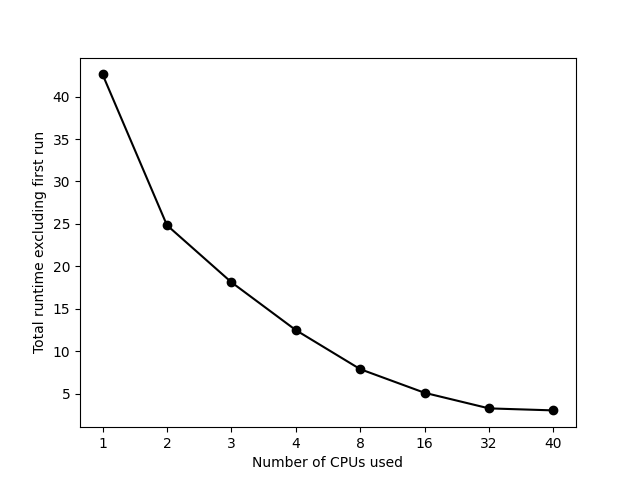
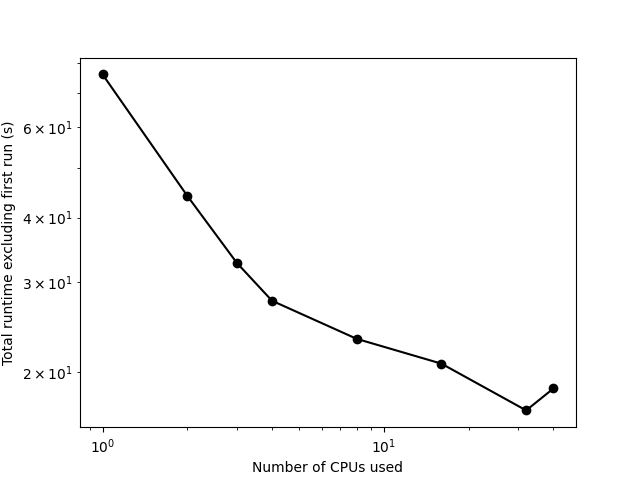
Update strong scale fixed gpu image

diff --git a/scripts/plot.py b/scripts/plot.py
@@ -2,16 +2,16 @@ import matplotlib.pyplot as plt
 import re
 import numpy as np
 
-weak_scale = True
+weak_scale = False
 strong_scale_fix_cpu = False
-strong_scale_fix_gpu = False
+strong_scale_fix_gpu = True
 
 if weak_scale:
     filename = "weak_scale"
 elif strong_scale_fix_cpu:
     filename = "strong_scale_fix_cpu"
 else:
-    filename = "strong_scale_fix_gpu"
+    filename = "data/strong_scale_fix_gpu"
 
 with open(filename, "r") as f:
     results = f.read().split("\n")
